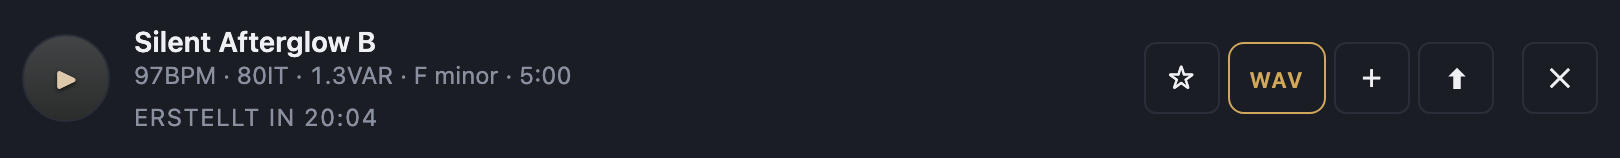
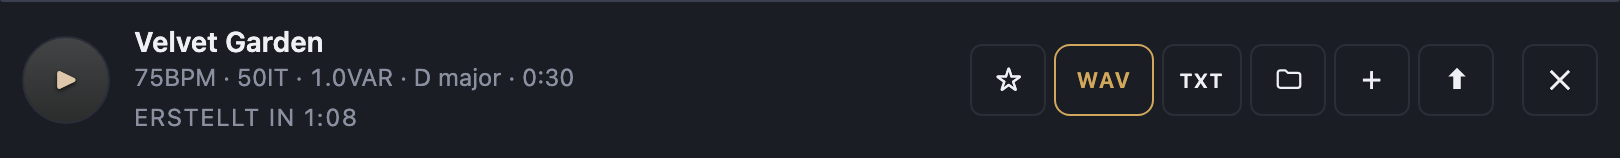
Installationsanleitung: Ordner, TXT, Abbrechen, Update-Knopf; Hilfe auf eigener Seite

diff --git a/docs/anleitung/build_pdf.py b/docs/anleitung/build_pdf.py
@@ -486,7 +486,7 @@ def page_app(c):
 
 # ═════════════════════════════════════════════════════════════════ Seite 6: Bibliothek + Hilfe
 def page_help(c):
-    y = header(c, "Bibliothek, Updates, Hilfe", "Wenn der erste Song fertig ist")
+    y = header(c, "Bibliothek, Ordner, Updates", "Wenn der erste Song fertig ist")
     y = h2(c, "Ein Song in der Bibliothek", y)
     rk = json.loads((HERE / "marks.json").read_text())["row"]
     iw_pt = W - 2 * M
@@ -501,8 +501,11 @@ def page_help(c):
         badge(c, n, ix + px * sc, iy + ih_pt + 8, 7.5)
     y = iy - 16
     items = [("Play", "abspielen, mit Wellenform unten"), ("Stern", "als Favorit markieren"),
-             ("WAV", "herunterladen, 48 kHz, 16 Bit"), ("Plus", "weitere Version mit neuem Seed"),
-             ("Pfeil", "Einstellungen ins Formular übernehmen"), ("Kreuz", "löschen")]
+             ("WAV", "herunterladen, 48 kHz, 16 Bit"), ("TXT", "Lyrics des Modells zeigen (nur bei Gesang)"),
+             ("Ordner", "in einen Ordner verschieben"), ("Plus", "weitere Version mit neuem Seed"),
+             ("Pfeil", "Einstellungen ins Formular übernehmen"), ("Kreuz", "löschen, bei laufendem Song abbrechen")]
+    if not rk.get("txt"):
+        items.pop(3)
     colw = (W - 2 * M) / 3
     st = ParagraphStyle("it", parent=small, fontSize=8.6, leading=11, textColor=INK)
     for i, (t, s) in enumerate(items):
@@ -510,19 +513,36 @@ def page_help(c):
         cy = y - (i // 3) * 26
         badge(c, i + 1, cx + 8, cy - 7, 7.5)
         para(c, f"<b>{t}</b> · {s}", cx + 22, cy, colw - 28, st)
-    y -= 60
+    y -= 26 * ((len(items) + 2) // 3) + 8
     y = para(c, "Titel lassen sich per Klick umbenennen. Die Zeile darunter zeigt "
                 "<b>BPM · IT</b> (Iterationen) <b>· VAR</b> (Varianz) · Tonart · Länge. "
                 "„Erstellt in …“ verschwindet, sobald du den Song zum ersten Mal abspielst.", M, y, W - 2 * M, small)
-    y -= 20
+    y -= 16
+
+    y = h2(c, "Ordner", y)
+    bk = json.loads((HERE / "marks.json").read_text())["bar"]
+    bh = iw_pt * bk["h"] / bk["w"]
+    c.setFillColor(PANEL)
+    c.roundRect(M - 4, y - bh - 12, iw_pt + 8, bh + 8, 6, stroke=0, fill=1)
+    c.drawImage(str(HERE / "folders.png"), M, y - bh - 8, iw_pt, bh)
+    y -= bh + 22
+    y = para(c, "Mit <b>+</b> legst du einen Ordner an. Songs ziehst du auf einen Ordner oder verschiebst sie mit dem "
+                "Ordner-Knopf der Songzeile, jede Version einzeln. Ein Klick auf einen Ordner zeigt nur dessen Songs; "
+                "neue Songs landen im gerade offenen Ordner. <b>Alle laden</b> bzw. <b>Ordner laden</b> lädt die "
+                "fertigen Songs der Ansicht als ZIP. Ordner löschen entfernt nur den Ordner, nicht die Songs.",
+             M, y, W - 2 * M, small)
+    y -= 16
 
     y = h2(c, "Aktualisieren", y)
-    y = para(c, "Neue Version holen und den Installer noch einmal laufen lassen. Deine Songs bleiben erhalten.",
-             M, y, W - 2 * M)
-    y -= 8
-    y = code(c, "cd ~/MusicGenerator && git pull\nopen Install.command", M, y, W - 2 * M)
-    y -= 20
+    y = para(c, "In der App: <b>Zahnrad › Nach Updates suchen › Jetzt aktualisieren</b>. Die App holt die neue Fassung "
+                "von GitHub und startet neu, deine Songs bleiben erhalten. Meldet sie eine neue Modellversion, "
+                "danach einmal <b>Install</b> starten.", M, y, W - 2 * M)
+    footer(c, 6)
 
+
+# ═════════════════════════════════════════════════════════════════ Seite 7: Hilfe
+def page_trouble(c):
+    y = header(c, "Hilfe", "Wenn etwas hakt")
     y = h2(c, "Wenn etwas hakt", y)
     rows = [["Problem", "Lösung"],
             ["„Zu wenig Speicherplatz“", "Platz schaffen (Papierkorb leeren!), dann Install erneut starten. Die Meldung nennt, wie viel nötig ist."],
@@ -536,13 +556,13 @@ def page_help(c):
     para(c, "Music Generator OFF, dann den Ordner <b>MusicGenerator</b> in den Papierkorb legen. "
             "Vorher den Unterordner <b>data/songs</b> sichern, falls du deine Songs behalten willst. "
             "Optional: das Hilfsprogramm uv liegt unter ~/.local/bin.", M, y, W - 2 * M)
-    footer(c, 6)
+    footer(c, 7)
 
 
 c = canvas.Canvas(str(OUT), pagesize=A4)
 c.setTitle("Music Generator – Installationsanleitung")
 c.setAuthor("Alphatester")
-for fn in (page_cover, page_overview, page_steps, page_flow, page_app, page_help):
+for fn in (page_cover, page_overview, page_steps, page_flow, page_app, page_help, page_trouble):
     fn(c)
     c.showPage()
 c.save()

diff --git a/docs/anleitung/capture.py b/docs/anleitung/capture.py
@@ -39,7 +39,13 @@ PAGE_JS = r"""
   const R = (el) => { const r = el.getBoundingClientRect(); return {x: r.left + scrollX, y: r.top + scrollY, w: r.width, h: r.height}; };
   const T = (el) => { const g = document.createRange(); g.selectNodeContents(el); return R({getBoundingClientRect: () => g.getBoundingClientRect()}); };
   const lbl = (t) => [...document.querySelectorAll('.lbl')].find(e => e.textContent.trim().toLowerCase().startsWith(t));
-  const song = [...document.querySelectorAll('.song')].find(s => s.querySelector('.download'));
+  // Beispielordner nur für das Foto einblenden (nichts wird gespeichert), damit Ordnerleiste und Ordner-Knopf zu sehen sind
+  dragging = true;   // hält die laufende Aktualisierung davon ab, das Bild wieder zu überschreiben
+  curFolder = '';
+  folders = { folders: [{ id: 'f1', name: 'Triphop', count: 6 }, { id: 'f2', name: 'Filmmusik', count: 3 }], all: folders.all, none: Math.max(0, folders.all - 9) };
+  render(); renderFolders();
+  const done = [...document.querySelectorAll('.song')].filter(s => s.querySelector('.download'));
+  const song = done.find(s => s.querySelector('[data-a=lyrics]')) || done[0];
   const q = (sel) => document.querySelector(sel);
   const card = R(q('.card'));
   return JSON.stringify({
@@ -49,7 +55,9 @@ PAGE_JS = r"""
     lyrics: T(q('#lyricsBox summary > span')), erweitert: T([...document.querySelectorAll('summary')].find(e => e.textContent.trim().toLowerCase().startsWith('erweitert'))),
     gen: R(q('#genBtn')), gear: R(q('#btnSettings')),
     row: song ? R(song) : null,
-    rowParts: song ? ['.round', '[data-a=fav]', '.download', '[data-a=more]', '[data-a=reuse]', '[data-a=del]'].map(s => R(song.querySelector(s))) : null,
+    rowParts: song ? ['.round', '[data-a=fav]', '.download', '[data-a=lyrics]', '[data-a=move]', '[data-a=more]', '[data-a=reuse]', '[data-a=del]'].map(s => song.querySelector(s)).filter(Boolean).map(R) : null,
+    hasTxt: !!(song && song.querySelector('[data-a=lyrics]')),
+    bar: R(q('#folderBar')),
   });
 })()
 """
@@ -137,6 +145,8 @@ def capture(cdp):
         cdp.shot(HERE / "form.png", 0, 0, WIDTH, fh)
         row = d["row"]
         cdp.shot(HERE / "row.png", row["x"], row["y"], row["w"], row["h"])
+        bar = d["bar"]
+        cdp.shot(HERE / "folders.png", bar["x"] - 6, bar["y"] - 6, bar["w"] + 12, bar["h"] + 12)
 
         mid = lambda r: (r["x"] + r["w"] / 2, r["y"] + r["h"] / 2)
         # Nummern neben die Elemente setzen, nicht darauf (CSS-Pixel im Bild)
@@ -154,7 +164,8 @@ def capture(cdp):
         ]
         out = {
             "form": {"w": WIDTH, "h": fh, "marks": [[round(x, 1), round(y, 1)] for x, y in marks]},
-            "row": {"w": row["w"], "h": row["h"],
+            "bar": {"w": bar["w"] + 12, "h": bar["h"] + 12},
+            "row": {"w": row["w"], "h": row["h"], "txt": d["hasTxt"],
                     "xs": [round(mid(p)[0] - row["x"], 1) for p in d["rowParts"]]},
         }
         (HERE / "marks.json").write_text(json.dumps(out, indent=1))
